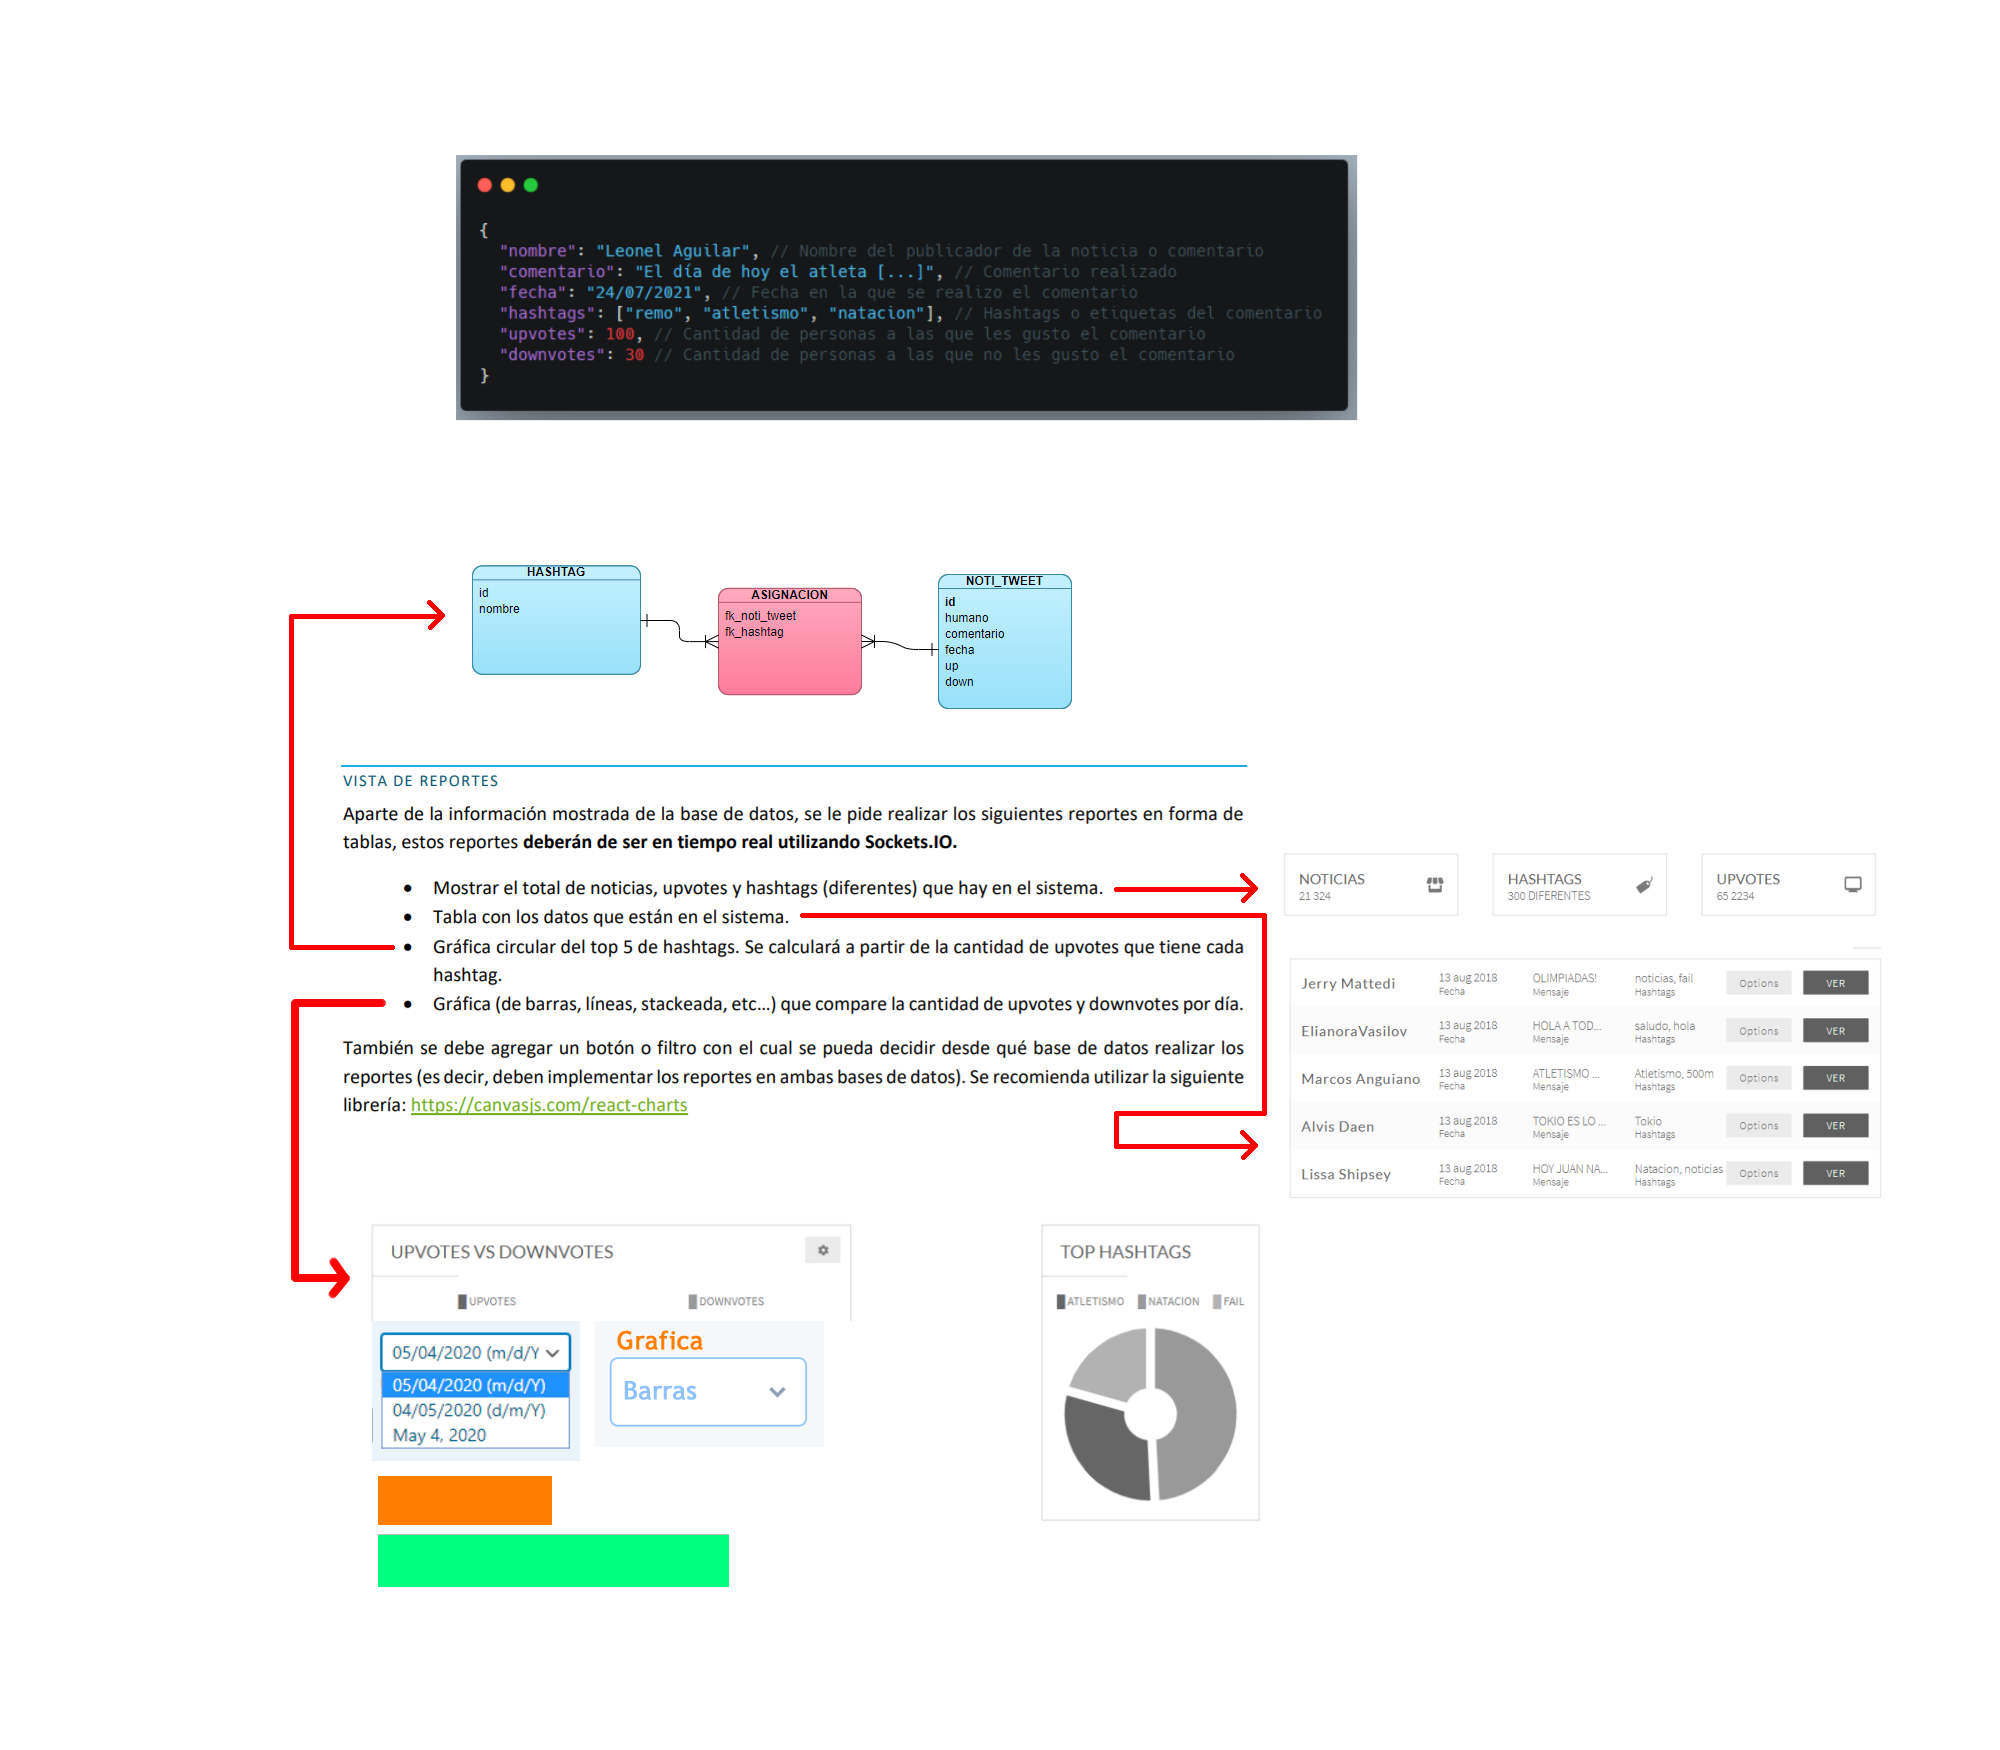
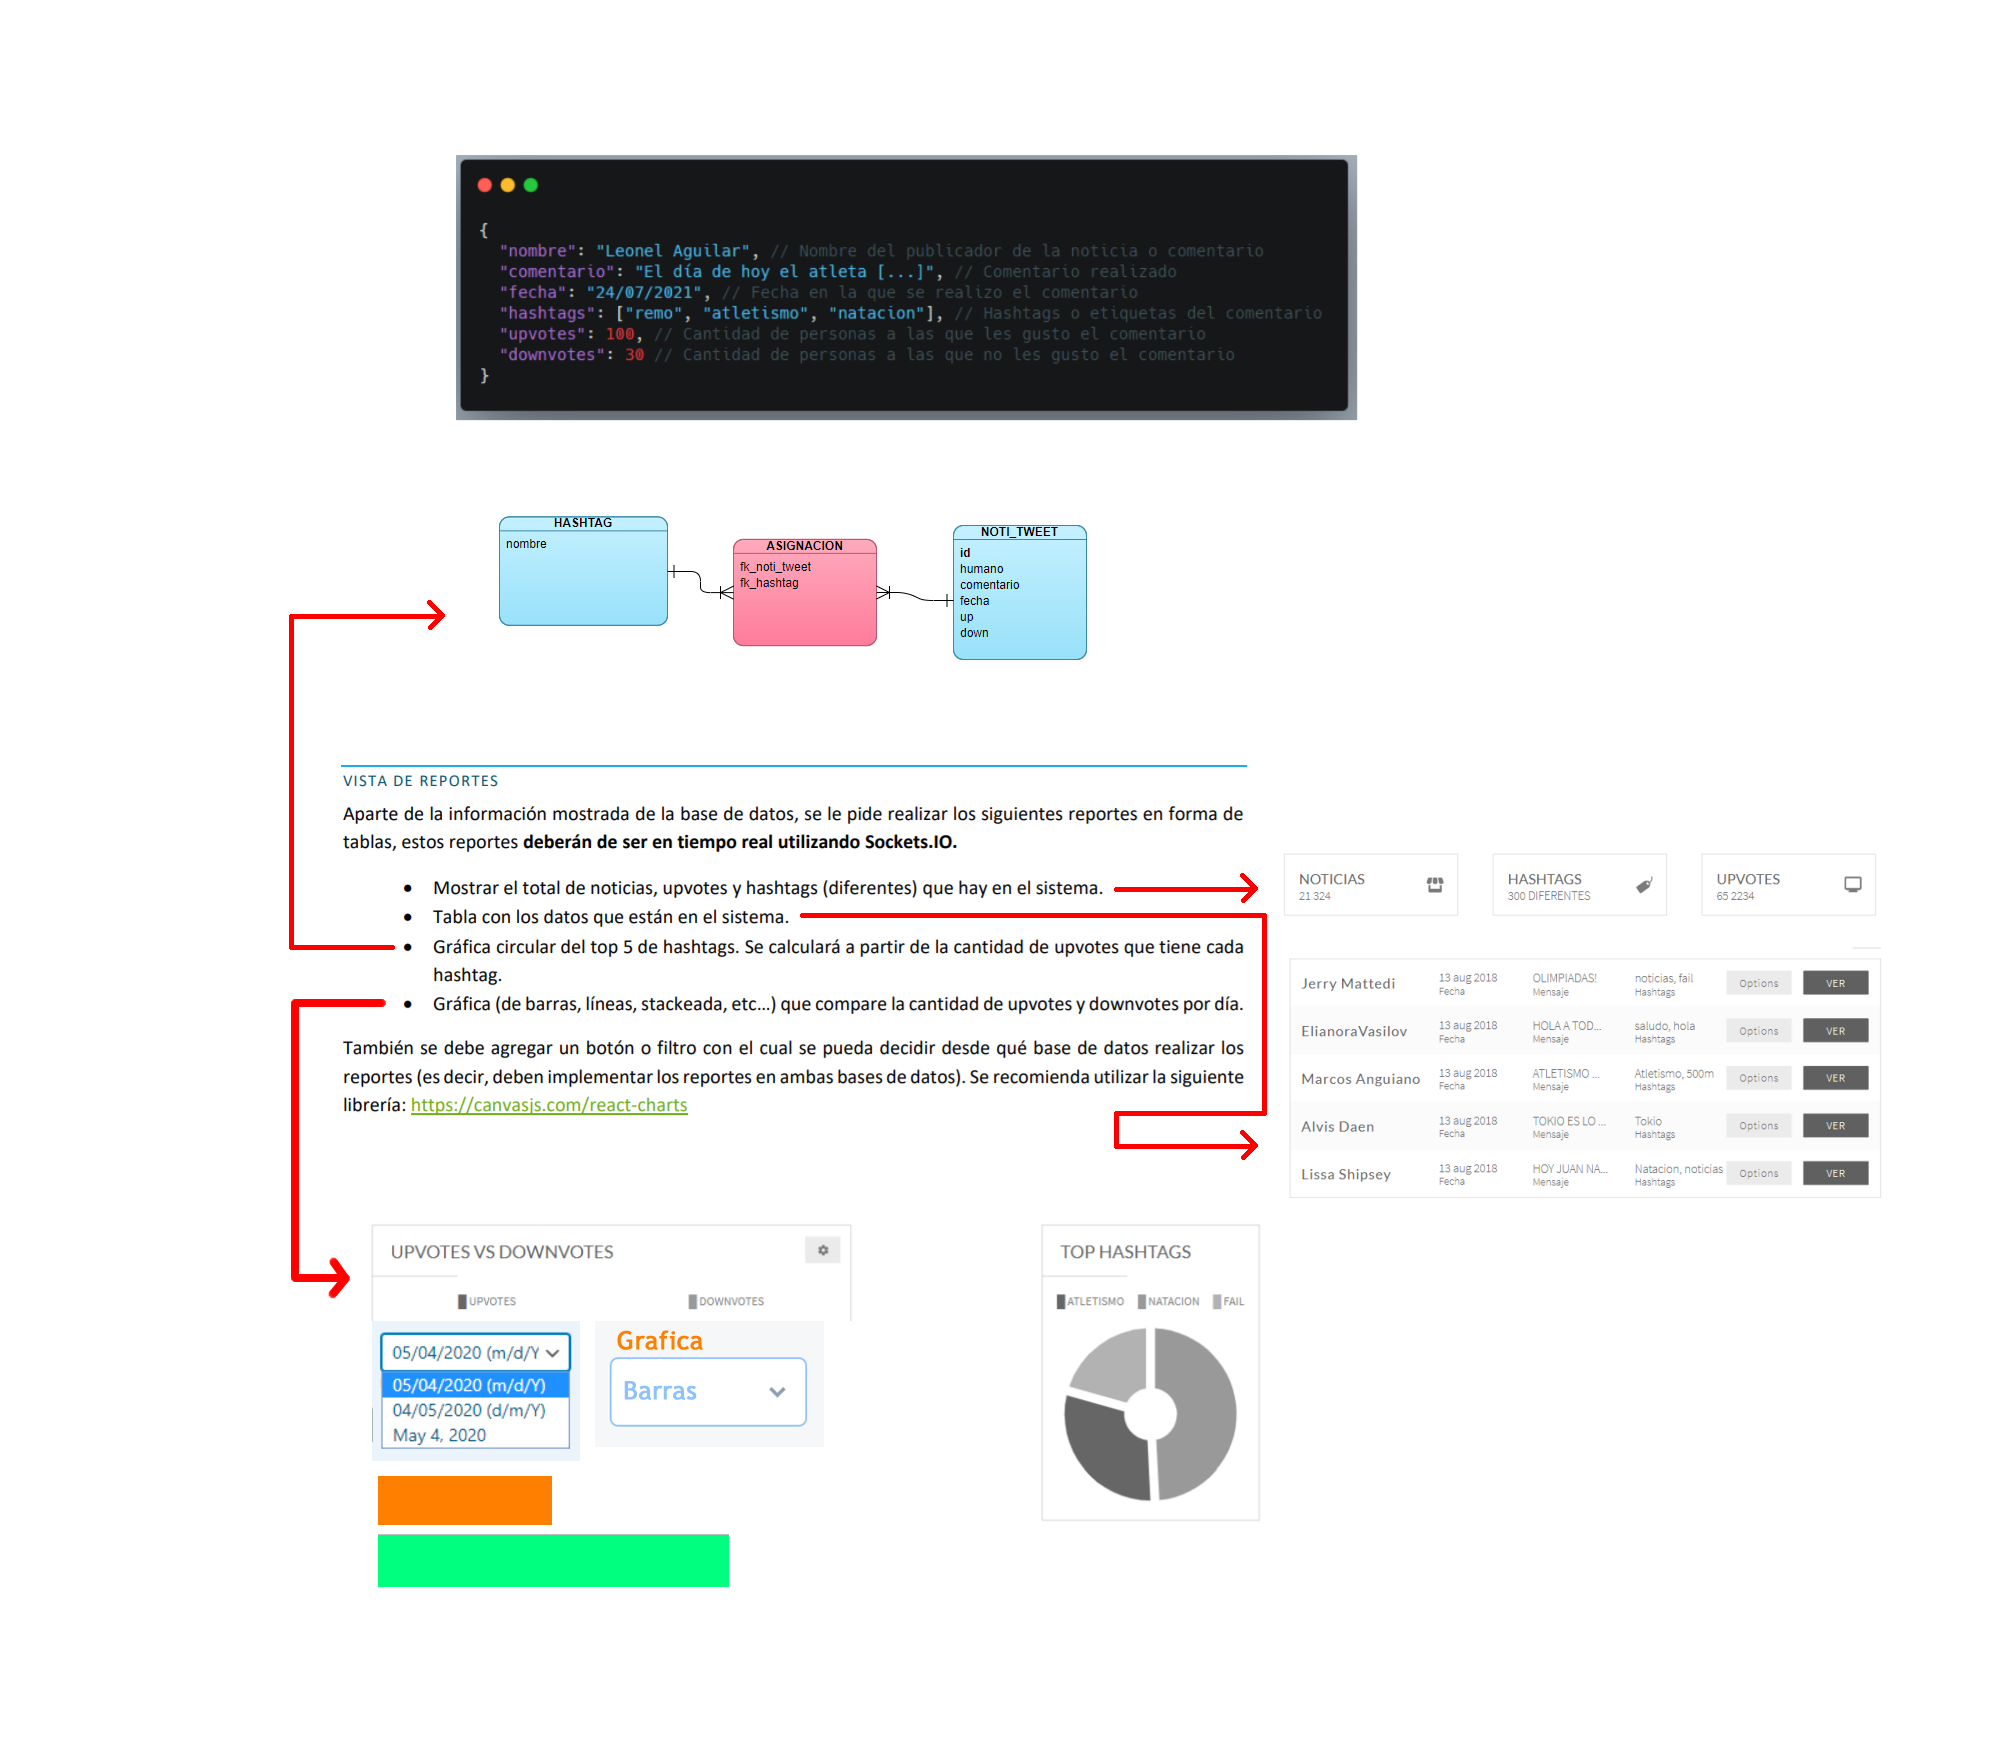
ER Actualizado :v

Changed region(s): [[0.217, 0.2777, 0.558, 0.432]]

diff --git a/Verde/Python/python_load.py b/Verde/Python/python_load.py
@@ -1,7 +1,8 @@
 import requests
 import json
 
-url = 'http://localhost:3000'
+#url = 'http://localhost:3000'
+url = 'http://35.209.199.1:80'
 
 class loadtest:
 

diff --git a/README.md b/README.md
@@ -18,3 +18,5 @@ http://34.123.109.15:3000
 ### CENTOS
 http://35.184.80.203:3000
 
+
+
